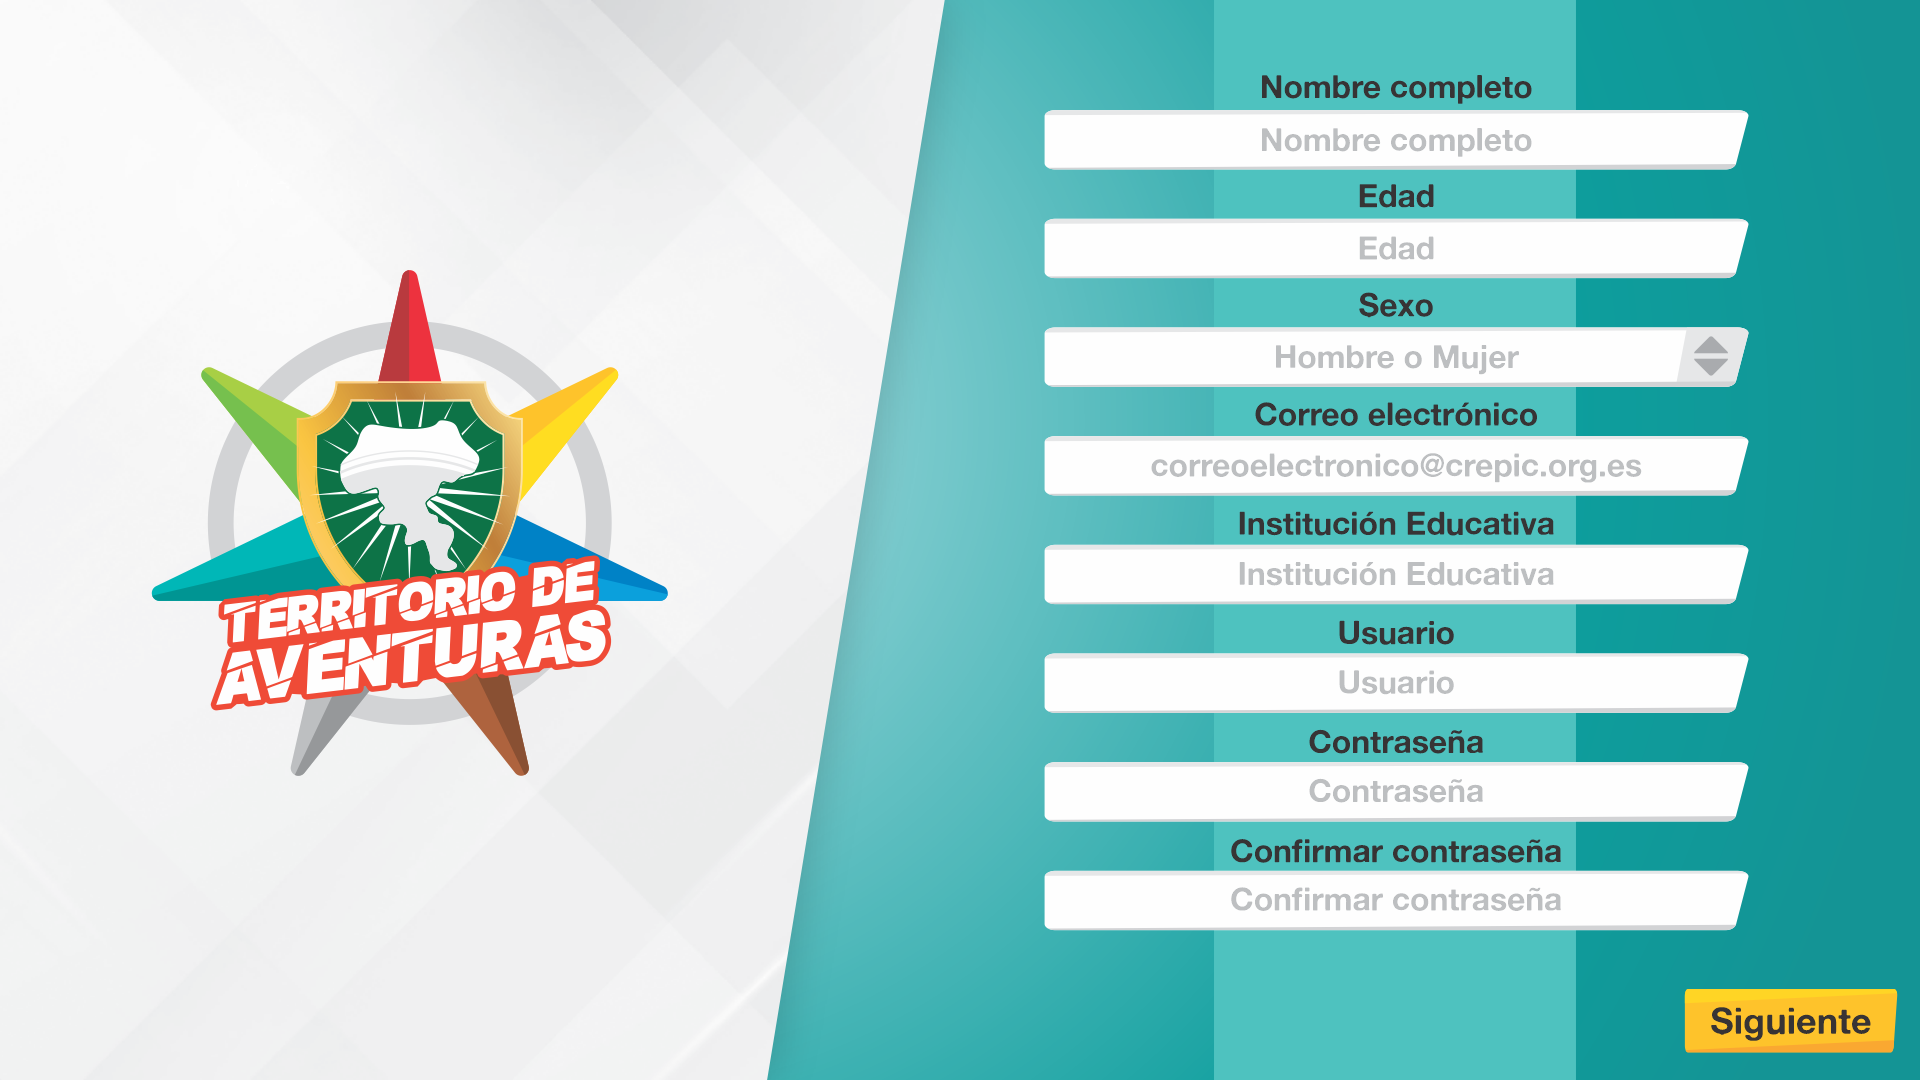
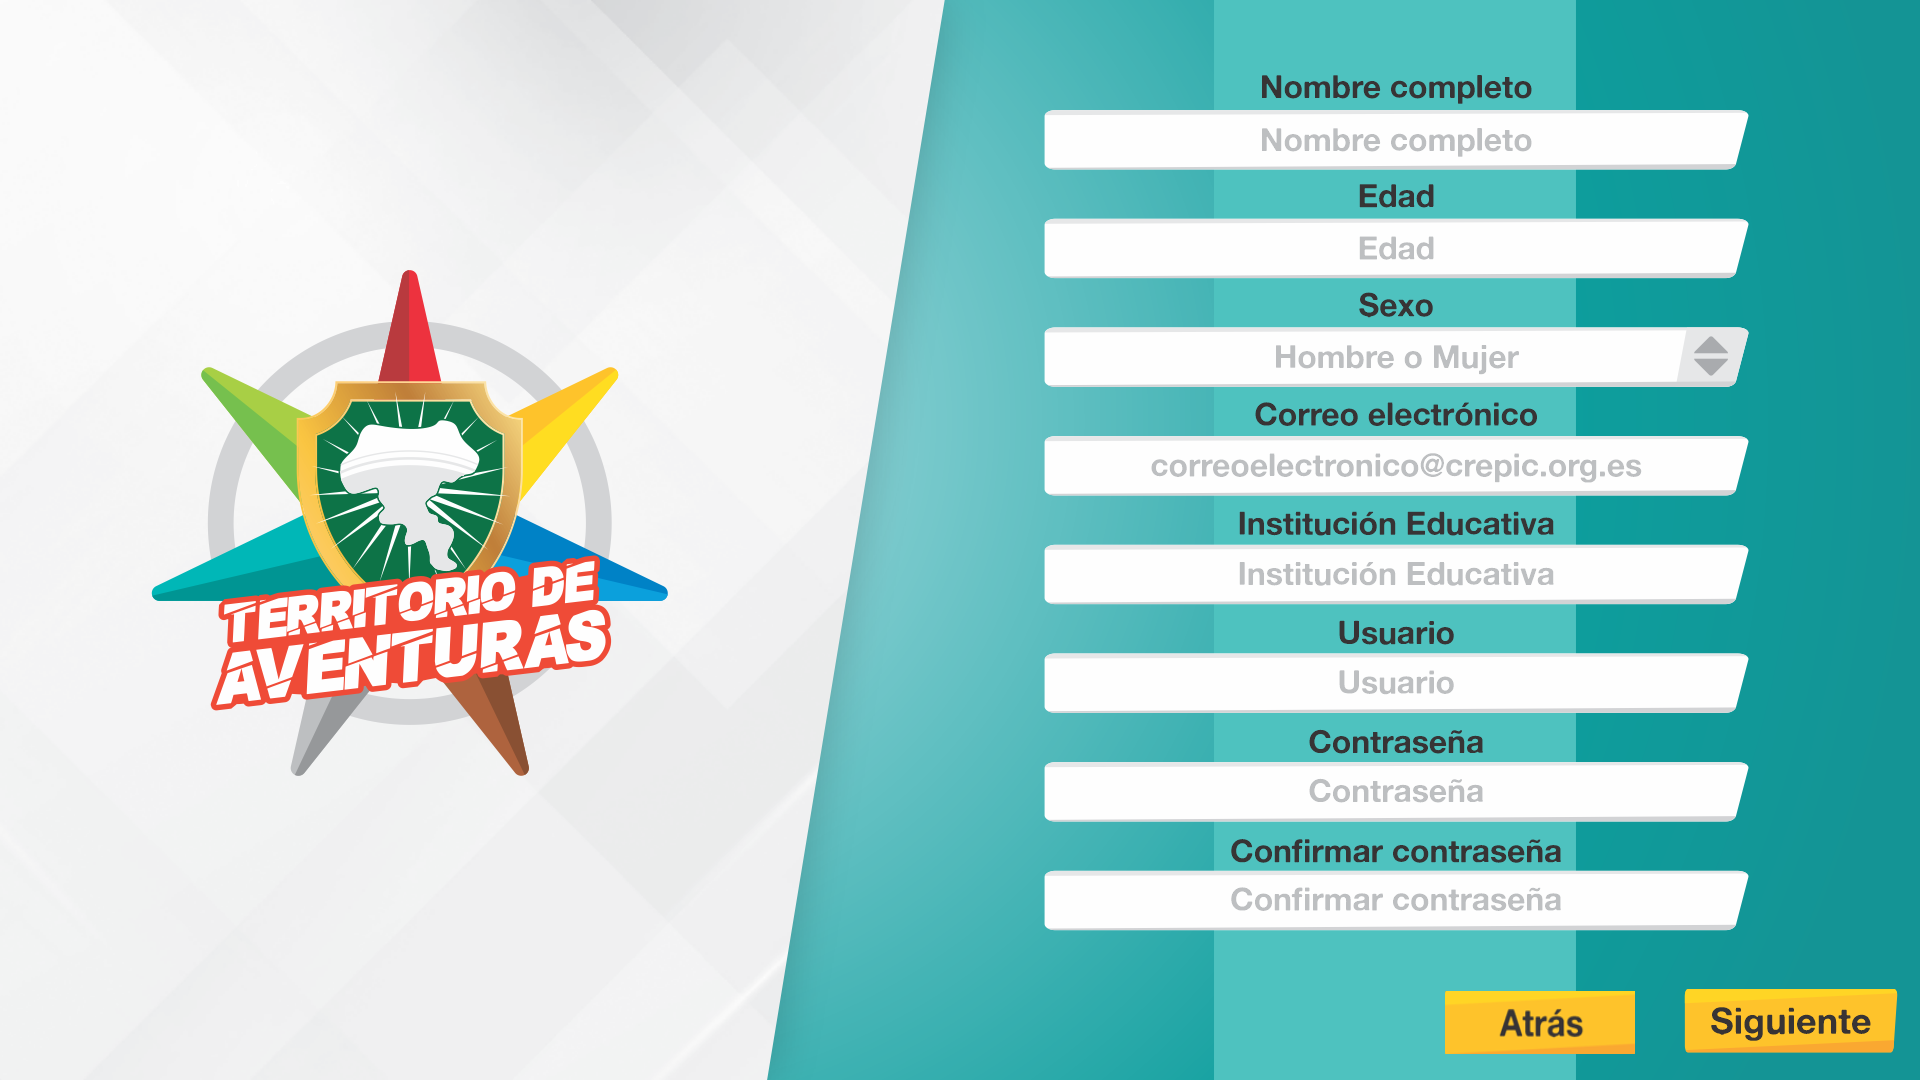
cambios a login y registro

Changed region(s): [[0.75, 0.9167, 0.875, 0.9778]]

diff --git a/Assets/Scripts/Db/api/FormLogin.cs b/Assets/Scripts/Db/api/FormLogin.cs
@@ -8,6 +8,7 @@ public class LoginForm : MonoBehaviour
     public TMP_InputField password;
     public TMP_Text result;
 
+    public GameObject formLogin = null;
     public GameObject formRegister = null;
 
     public void login()
@@ -38,7 +39,7 @@ public class LoginForm : MonoBehaviour
 
         if (userData == "" && passwordData == "")
         {
-            result.text = "Ingrese el Usuario y Contrase�a";
+            result.text = "Ingrese el Usuario y Contraseña";
             isValid = false;
         }
         else
@@ -60,7 +61,7 @@ public class LoginForm : MonoBehaviour
 
     public void showFormRegister()
     {
-        gameObject.SetActive(false);
+        formLogin.SetActive(false);
         formRegister.SetActive(true);
     }
 }

diff --git a/Assets/Scripts/Db/api/FormRegister.cs b/Assets/Scripts/Db/api/FormRegister.cs
@@ -1,17 +1,28 @@
+using TMPro;
 using UnityEngine;
 
 public class FormRegister : MonoBehaviour
 {
 
+    public TMP_Text result;
+
     public GameObject formLogin = null;
+    public GameObject formRegister = null;
 
     public void Start()
     {
     }
 
+    public void registrar()
+    {
+        Debug.Log("asdasdasdasdsa");
+    }
+
     public void showFormLogin()
     {
+
+        Debug.Log("asd");
         formLogin.SetActive(true);
-        gameObject.SetActive(false);
+        formRegister.SetActive(false);
     }
 }
